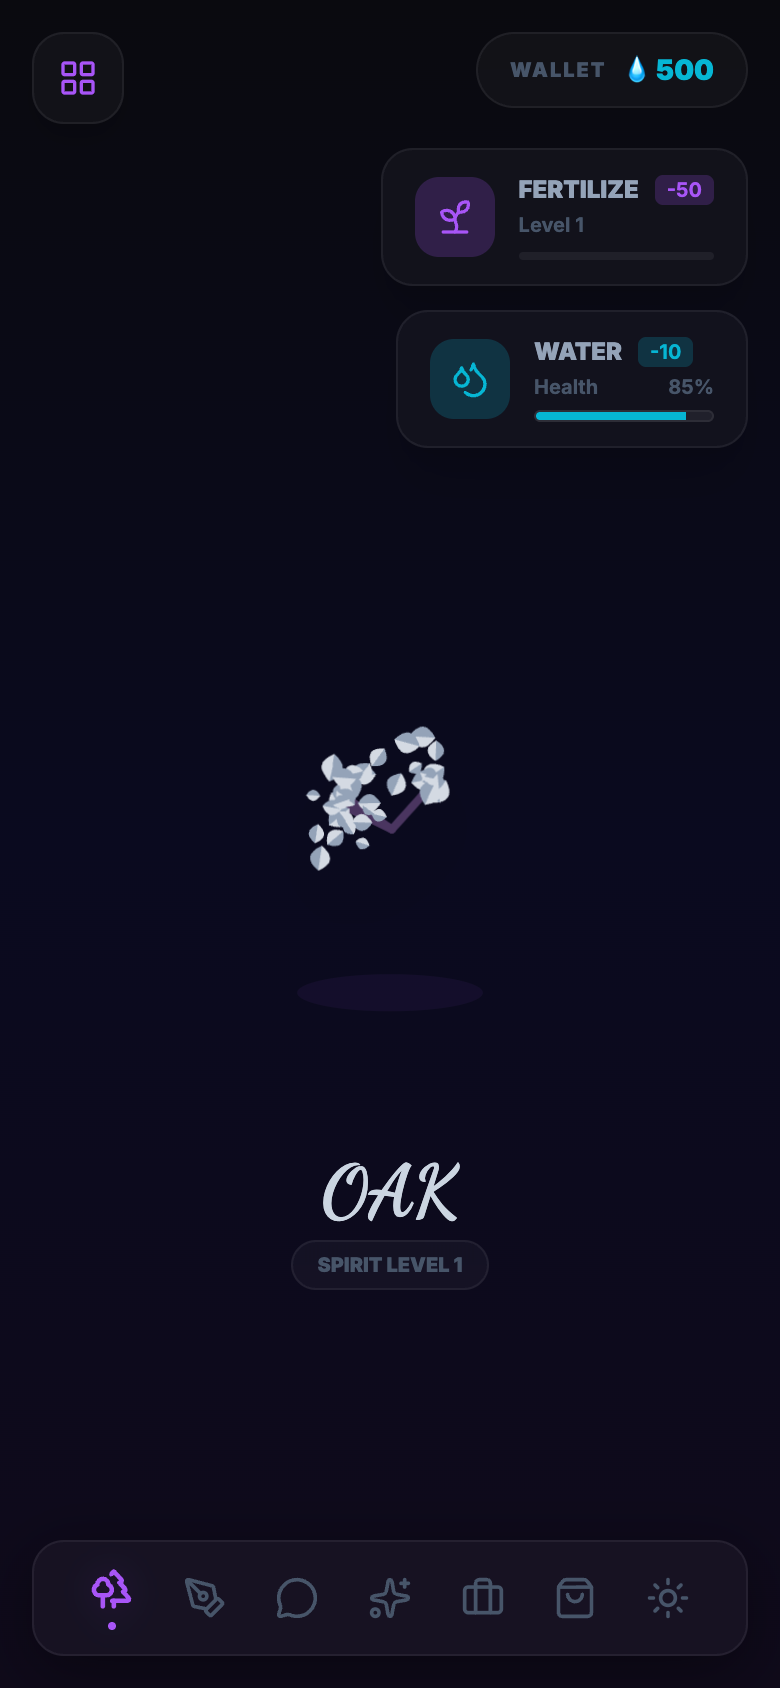
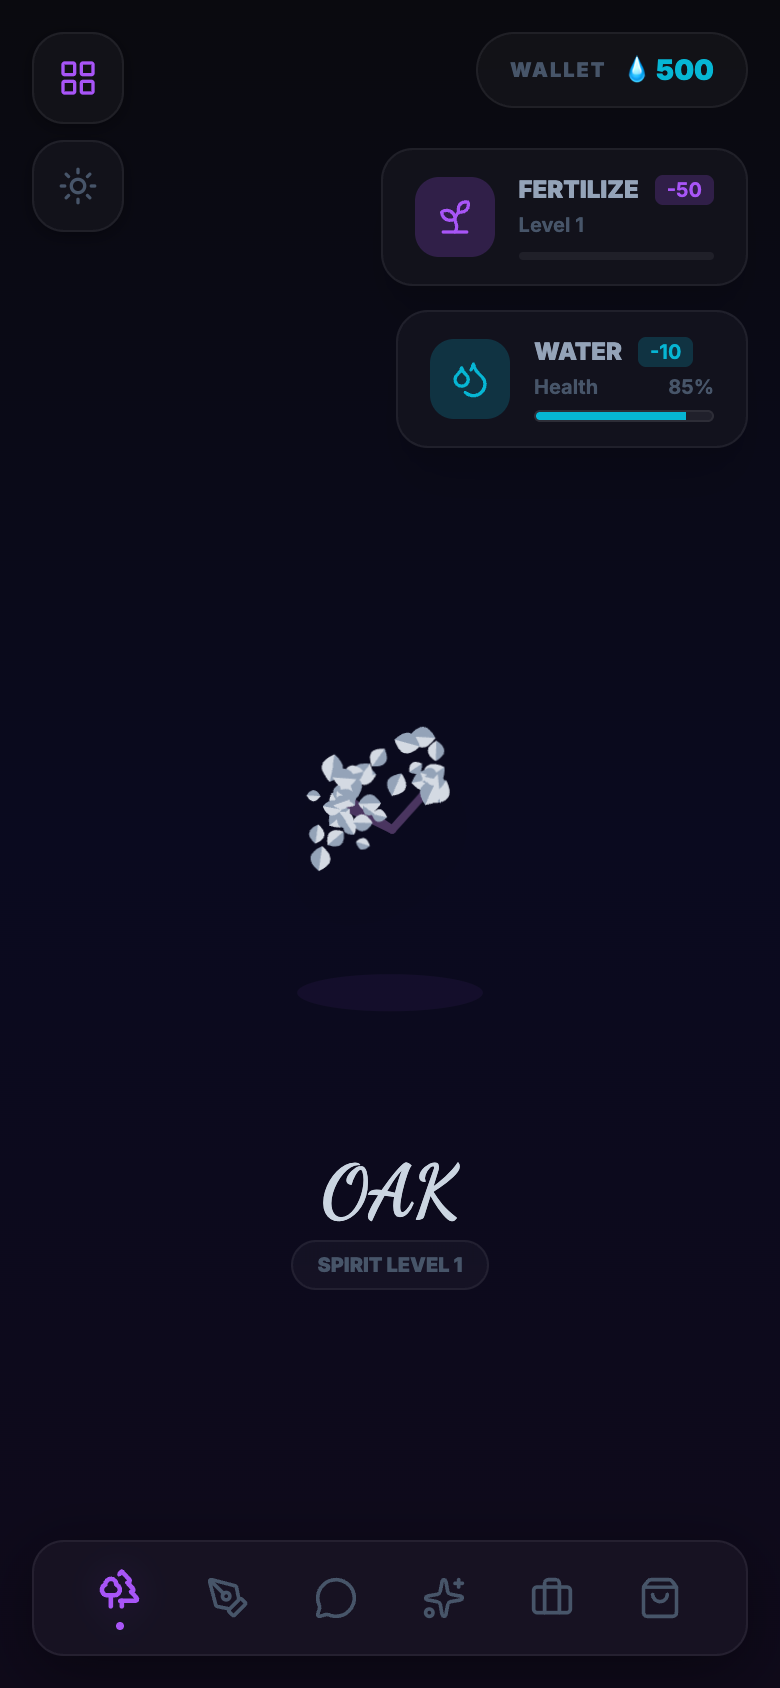
chore: type-only imports + code simplification (iteration 5/5)
Final polish pass: convert all value imports to `import type` across 11
files, extract inline type assertions to typed variables in AIChat, and
update screenshots. All 43 tests pass, tsc clean, build succeeds.

diff --git a/components/AIChat.tsx b/components/AIChat.tsx
@@ -1,6 +1,6 @@
 
 import { useState, useRef, useEffect, type ReactElement } from 'react';
-import { Message, JournalEntry } from '../types';
+import type { Message, JournalEntry } from '../types';
 import { useLocalStorage } from '../hooks/useLocalStorage';
 import { chatWithSpirit } from '../services/gemini';
 import { Send, Sparkles } from 'lucide-react';
@@ -32,9 +32,11 @@ function AIChat({ entries }: AIChatProps): ReactElement {
 
     try {
       const response = await chatWithSpirit(messages, text, entries);
-      setMessages(prev => [...prev, { role: 'model' as const, text: response }].slice(-50));
+      const reply: Message = { role: 'model', text: response };
+      setMessages(prev => [...prev, reply].slice(-50));
     } catch {
-      setMessages(prev => [...prev, { role: 'model' as const, text: 'The spirit is fading... try again later.' }]);
+      const fallback: Message = { role: 'model', text: 'The spirit is fading... try again later.' };
+      setMessages(prev => [...prev, fallback]);
     } finally {
       setIsTyping(false);
     }

diff --git a/App.tsx b/App.tsx
@@ -1,6 +1,6 @@
 
 import { useState, useEffect, type ReactElement } from 'react';
-import { Season, UserProfile, JournalEntry, Ornament, ViewType } from './types';
+import type { Season, UserProfile, JournalEntry, Ornament, ViewType } from './types';
 import { getSeason, SEASON_COLORS, DEFAULT_USER } from './constants';
 import { useLocalStorage } from './hooks/useLocalStorage';
 import { useTheme } from './hooks/useTheme';

diff --git a/components/ImageGen.tsx b/components/ImageGen.tsx
@@ -2,7 +2,7 @@
 import { useState, type ReactElement } from 'react';
 import { Sparkles, Loader2, Info } from 'lucide-react';
 import { generateOrnament } from '../services/gemini';
-import { Ornament } from '../types';
+import type { Ornament } from '../types';
 
 interface ImageGenProps {
   onGenerated: (ornament: Ornament) => void;

diff --git a/services/gemini.ts b/services/gemini.ts
@@ -1,6 +1,6 @@
 
 import { GoogleGenAI } from "@google/genai";
-import { Message, ImageSize, JournalEntry } from "../types";
+import type { Message, ImageSize, JournalEntry } from "../types";
 
 export function getGeminiClient(): GoogleGenAI {
   const apiKey = import.meta.env.VITE_GEMINI_API_KEY;

diff --git a/components/TreeScene.tsx b/components/TreeScene.tsx
@@ -1,6 +1,6 @@
 
 import { useMemo, type ReactElement } from 'react';
-import { Season, UserProfile } from '../types';
+import { Season, type UserProfile } from '../types';
 import { Droplets, Sprout, LayoutGrid, Sun, Moon } from 'lucide-react';
 import { useTheme } from '../hooks/useTheme';
 

diff --git a/components/BottomNav.tsx b/components/BottomNav.tsx
@@ -1,7 +1,7 @@
 
 import type { ReactElement } from 'react';
 import { Trees, PenTool, MessageCircle, Sparkles, Briefcase, ShoppingBag } from 'lucide-react';
-import { ViewType } from '../types';
+import type { ViewType } from '../types';
 
 interface BottomNavProps {
   activeView: ViewType;

diff --git a/components/JournalView.tsx b/components/JournalView.tsx
@@ -1,7 +1,7 @@
 
 import { useState, type ReactElement } from 'react';
 import { Send, Calendar as CalendarIcon, Trees, X } from 'lucide-react';
-import { JournalEntry } from '../types';
+import type { JournalEntry } from '../types';
 
 interface JournalViewProps {
   entries: JournalEntry[];

diff --git a/components/Shop.tsx b/components/Shop.tsx
@@ -1,7 +1,7 @@
 
 import { useState, useEffect, type ReactElement } from 'react';
 import { ShoppingCart, Zap, Droplets, Wind, Package } from 'lucide-react';
-import { UserProfile } from '../types';
+import type { UserProfile } from '../types';
 
 interface ShopProps {
   user: UserProfile;

diff --git a/components/TreeCollections.tsx b/components/TreeCollections.tsx
@@ -1,6 +1,6 @@
 
 import type { ReactElement } from 'react';
-import { UserProfile, TreeType } from '../types';
+import type { UserProfile, TreeType } from '../types';
 import { ArrowLeft, Check, Lock } from 'lucide-react';
 
 interface TreeCollectionsProps {

diff --git a/components/ErrorBoundary.tsx b/components/ErrorBoundary.tsx
@@ -1,5 +1,5 @@
 
-import { Component, ErrorInfo, ReactNode } from 'react';
+import { Component, type ErrorInfo, type ReactNode } from 'react';
 
 interface Props { children: ReactNode; }
 interface State { hasError: boolean; }

diff --git a/components/Vault.tsx b/components/Vault.tsx
@@ -1,6 +1,6 @@
 
 import type { ReactElement } from 'react';
-import { UserProfile } from '../types';
+import type { UserProfile } from '../types';
 import { Package, Calendar } from 'lucide-react';
 
 interface VaultProps {

diff --git a/constants.ts b/constants.ts
@@ -1,5 +1,5 @@
 
-import { Season, UserProfile } from './types';
+import { Season, type UserProfile } from './types';
 
 export function getSeason(): Season {
   const month = new Date().getMonth();
